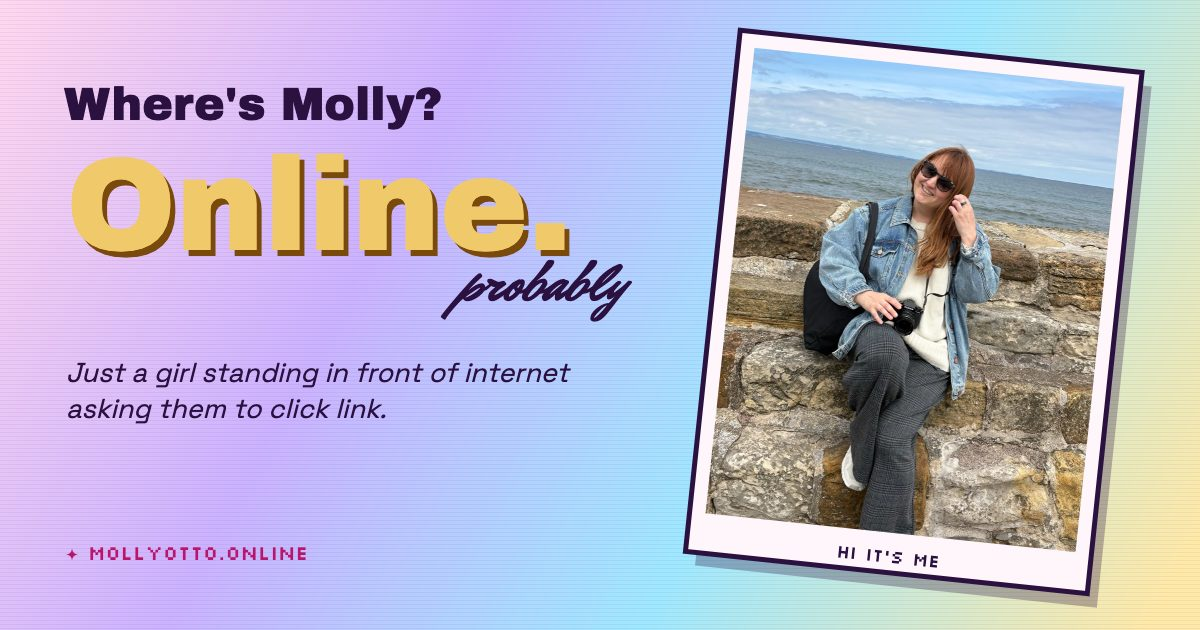
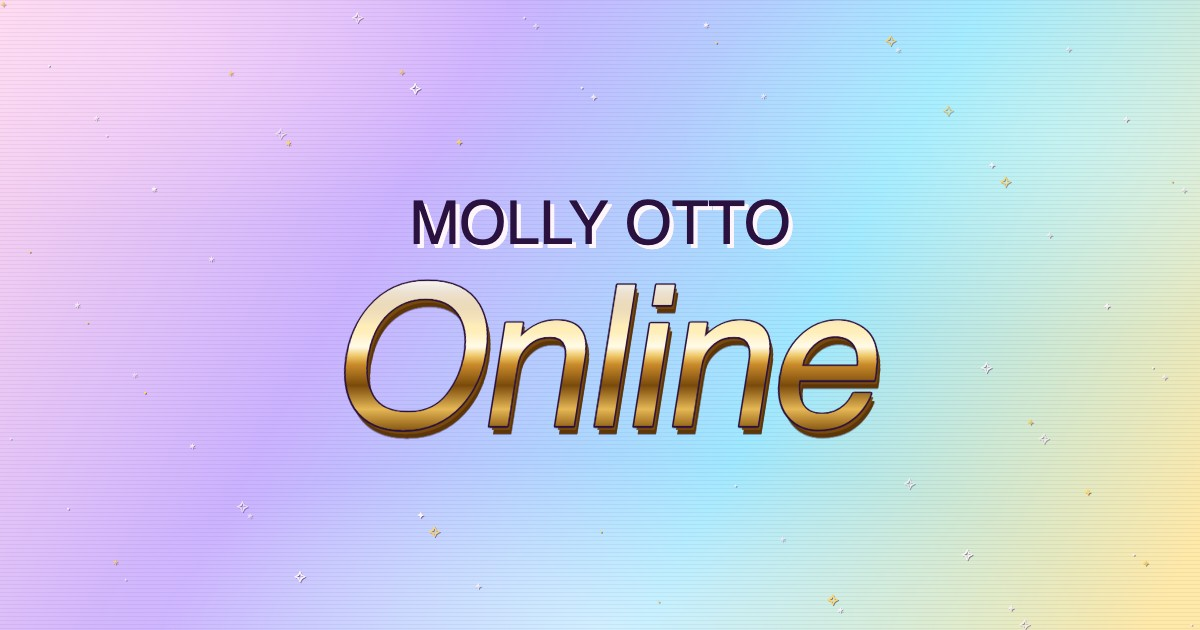
Share image + editorial plain mode
- Rebuild share card: brand gradient, sparkles, scanlines, MOLLY OTTO
  kicker over the site's shiny chrome "Online" lockup
- Plain (nostalgia-off) mode: render full copy (personas, desk, contact),
  restyle as left-aligned editorial column

diff --git a/app.js b/app.js
@@ -83,18 +83,64 @@ function renderBento2() {
   }).join('');
 }
 
-/* ---------- plain (nostalgia off) ---------- */
+/* ---------- plain (nostalgia off) ----------
+   A full, unstyled text edition of the site — same copy as the fancy view,
+   nothing dropped. Editorial / left-aligned. */
+const tc = s => s ? s.charAt(0) + s.slice(1).toLowerCase() : s;
+const ul = arr => `<ul>${(arr || []).map(b => `<li>${b}</li>`).join('')}</ul>`;
+
 function renderPlain() {
-  $('plainInner').innerHTML =
-    `<h1>Molly Otto</h1><p class="sub">Producer &amp; digital strategist. San Francisco.</p>
-     <p>${CONTENT.bio}</p>
-     ${CONTENT.personas.map(p => `<div style="margin-bottom:26px"><h2>${p.label}</h2><p>${p.blurb}</p>
-       <ul style="margin:0;padding-left:20px">${p.bullets.map(b => `<li style="margin-bottom:3px">${b}</li>`).join('')}</ul></div>`).join('')}
-     <h2 style="margin-top:34px">Get in touch</h2>
-     <ul style="margin:0;padding-left:20px">
-       <li><a href="mailto:${CONTENT.email}">${CONTENT.email}</a></li>
-       ${CONTENT.social.map(s => `<li><a href="${s.href}" target="_blank" rel="noreferrer">${s.label[0] + s.label.slice(1).toLowerCase()}</a></li>`).join('')}
-     </ul>`;
+  const b = CONTENT.base;
+  const parts = [];
+
+  // masthead
+  parts.push(`<header class="masthead">
+    <h1>Molly Otto</h1>
+    <p class="sub">Producer &amp; digital strategist — San Francisco</p>
+  </header>`);
+
+  // about
+  parts.push(`<section>
+    <p class="lede">${b.longVersion || CONTENT.bio}</p>
+    <p class="label">${b.listLabel || 'In short'}</p>
+    ${ul(b.bullets)}
+  </section>`);
+
+  // the personas / what she does
+  CONTENT.personas.forEach(p => {
+    parts.push(`<section>
+      <h2>${p.name || p.label}</h2>
+      ${p.headline ? `<p class="dek">${p.headline}</p>` : ''}
+      ${p.longVersion ? `<p>${p.longVersion}</p>` : (p.blurb ? `<p>${p.blurb}</p>` : '')}
+      ${p.listLabel ? `<p class="label">${p.listLabel}</p>` : ''}
+      ${ul(p.bullets)}
+      ${p.linkHref && p.linkLabel ? `<p class="more"><a href="${p.linkHref}"${/^https?:/.test(p.linkHref) ? ' target="_blank" rel="noreferrer"' : ''}>${p.linkLabel} →</a></p>` : ''}
+    </section>`);
+  });
+
+  // the rest of the desk — bento2 cards
+  const desk = (CONTENT.bento2 || []).filter(c => c.enabled !== false && c.body);
+  if (desk.length) {
+    parts.push(`<section><h2>The rest of the desk</h2>${desk.map(c => {
+      const head = c.kicker ? c.kicker.replace(/[✦\s]+/g, ' ').trim() : (c.title || '');
+      const body = c.body ? esc(c.body).replace(/\n/g, '<br>') : '';
+      const inner = c.link
+        ? `<p>${body || esc(c.title)} <a href="${esc(c.link)}" target="_blank" rel="noreferrer">→</a></p>`
+        : (body ? `<p>${body}</p>` : '');
+      return `<div class="deskitem">${head ? `<p class="label">${esc(head)}</p>` : ''}${inner}</div>`;
+    }).join('')}</section>`);
+  }
+
+  // contact
+  parts.push(`<section>
+    <h2>Elsewhere</h2>
+    <ul class="links">
+      <li><a href="mailto:${CONTENT.email}">${CONTENT.email}</a></li>
+      ${CONTENT.social.map(s => `<li><a href="${s.href}" target="_blank" rel="noreferrer">${tc(s.label)}</a></li>`).join('')}
+    </ul>
+  </section>`);
+
+  $('plainInner').innerHTML = parts.join('');
 }
 
 /* ---------- ambient ---------- */

diff --git a/styles.css b/styles.css
@@ -144,11 +144,36 @@
   .email .txt{font-family:'Archivo Black',sans-serif;font-size:34px;text-transform:uppercase;text-shadow:3px 3px 0 var(--cream)}
   .copyright{font-family:'Silkscreen',monospace;font-size:9px;line-height:1.9;color:#5b3a7a;text-align:center;padding-top:8px}
 
-  /* plain mode */
-  #plain{display:none;position:relative;z-index:6;min-height:100vh;background:#fffdf9}
+  /* plain mode — editorial, left-aligned (Kinfolk / gallery restraint) */
+  #plain{display:none;position:relative;z-index:6;min-height:100vh;background:#faf9f6}
   body.plain #fancy{display:none} body.plain #plain{display:block}
   body.plain .chaos,body.plain #sparkles,body.plain .scanlines{display:none}
-  #plain .inner{max-width:620px;margin:0 auto;padding:56px 24px 90px;font-family:Georgia,'Times New Roman',serif;color:#1c1c1c;font-size:17px;line-height:1.65}
-  #plain a{color:#0645ad} #plain h1{margin:0;font-size:30px;font-weight:400;letter-spacing:-.01em}
-  #plain h2{font-size:19px;font-weight:400;font-style:italic}
-  #plain .sub{margin:4px 0 26px;color:#666;font-size:15px}
+  #plain .inner{
+    max-width:640px;margin:0;padding:120px 32px 140px 96px;
+    font-family:-apple-system,'Helvetica Neue','Segoe UI',Arial,sans-serif;
+    color:#1a1a1a;font-size:17px;line-height:1.72;font-weight:400;
+    -webkit-font-smoothing:antialiased;
+  }
+  #plain a{color:#1a1a1a;text-decoration:none;border-bottom:1px solid #bbb}
+  #plain a:hover{border-bottom-color:#1a1a1a}
+  #plain .masthead{margin-bottom:64px}
+  #plain h1{margin:0;font-size:26px;font-weight:600;letter-spacing:-.01em}
+  #plain .sub{margin:8px 0 0;color:#8a8a8a;font-size:15px;letter-spacing:.01em}
+  #plain section{margin:0 0 56px;max-width:560px}
+  #plain h2{margin:0 0 14px;font-size:20px;font-weight:600;letter-spacing:-.005em}
+  #plain .dek{margin:0 0 14px;color:#6a6a6a;font-style:italic;font-size:17px}
+  #plain .lede{font-size:19px;line-height:1.65}
+  #plain p{margin:0 0 14px}
+  #plain .label{
+    margin:24px 0 10px;font-size:11px;font-weight:600;letter-spacing:.14em;
+    text-transform:uppercase;color:#9a9a9a;
+  }
+  #plain ul{margin:0 0 4px;padding:0;list-style:none}
+  #plain li{position:relative;padding-left:20px;margin-bottom:6px;color:#333}
+  #plain ul li::before{content:'—';position:absolute;left:0;color:#c0c0c0}
+  #plain .links li::before{content:''}
+  #plain .links li{padding-left:0}
+  #plain .more{margin-top:14px;font-size:15px}
+  #plain .deskitem{margin-bottom:22px}
+  #plain .deskitem .label{margin-top:0}
+  @media(max-width:640px){#plain .inner{padding:80px 24px 100px}}
